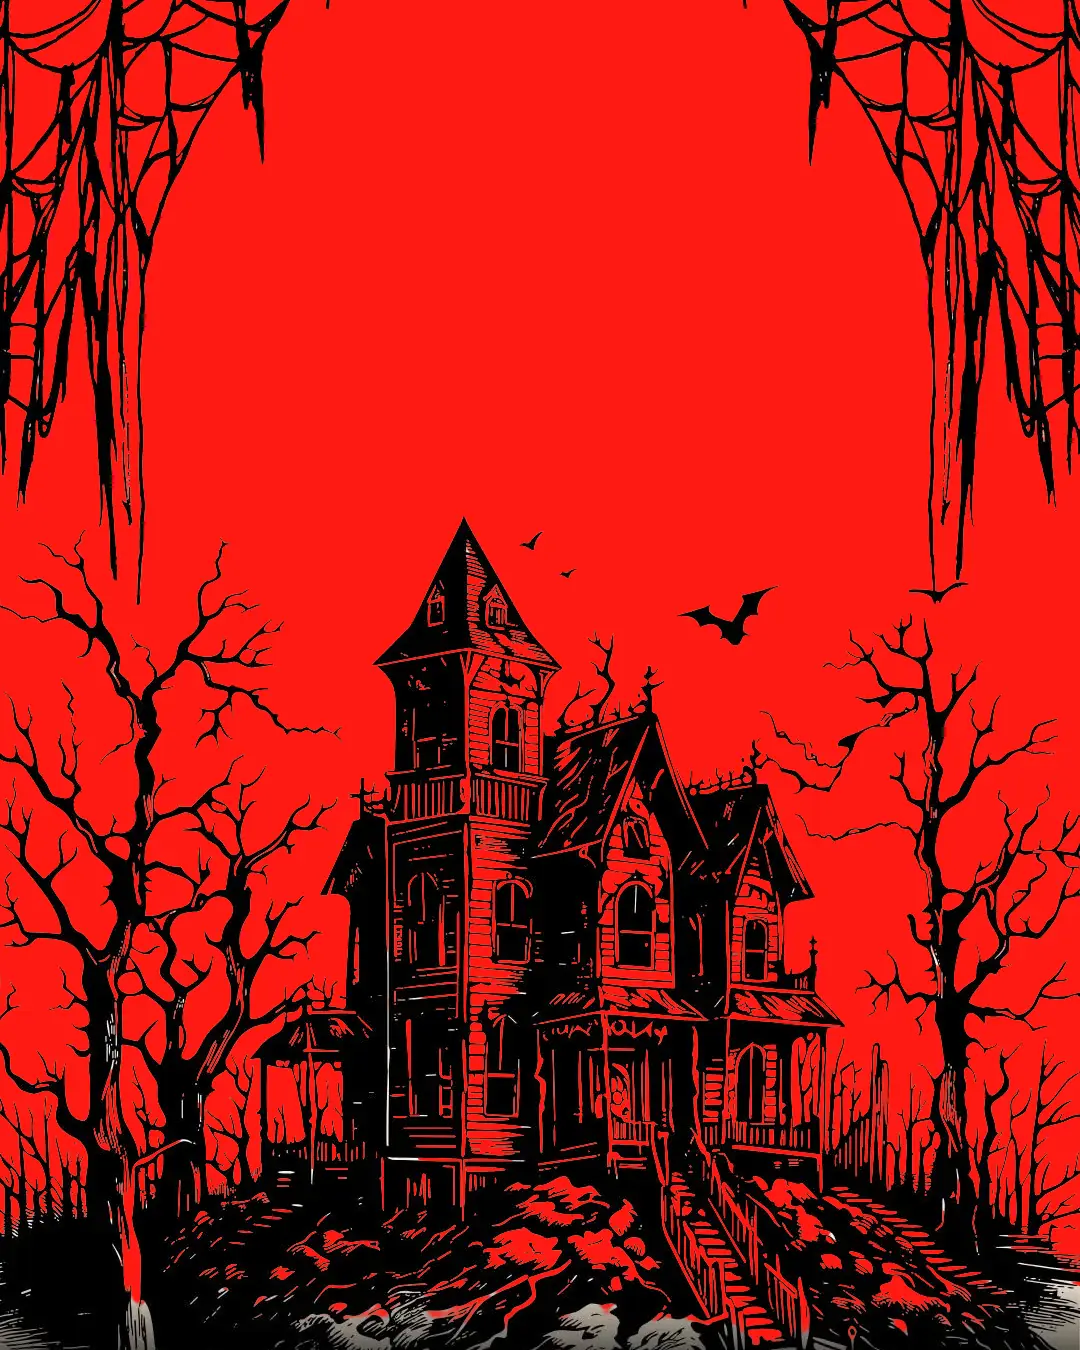
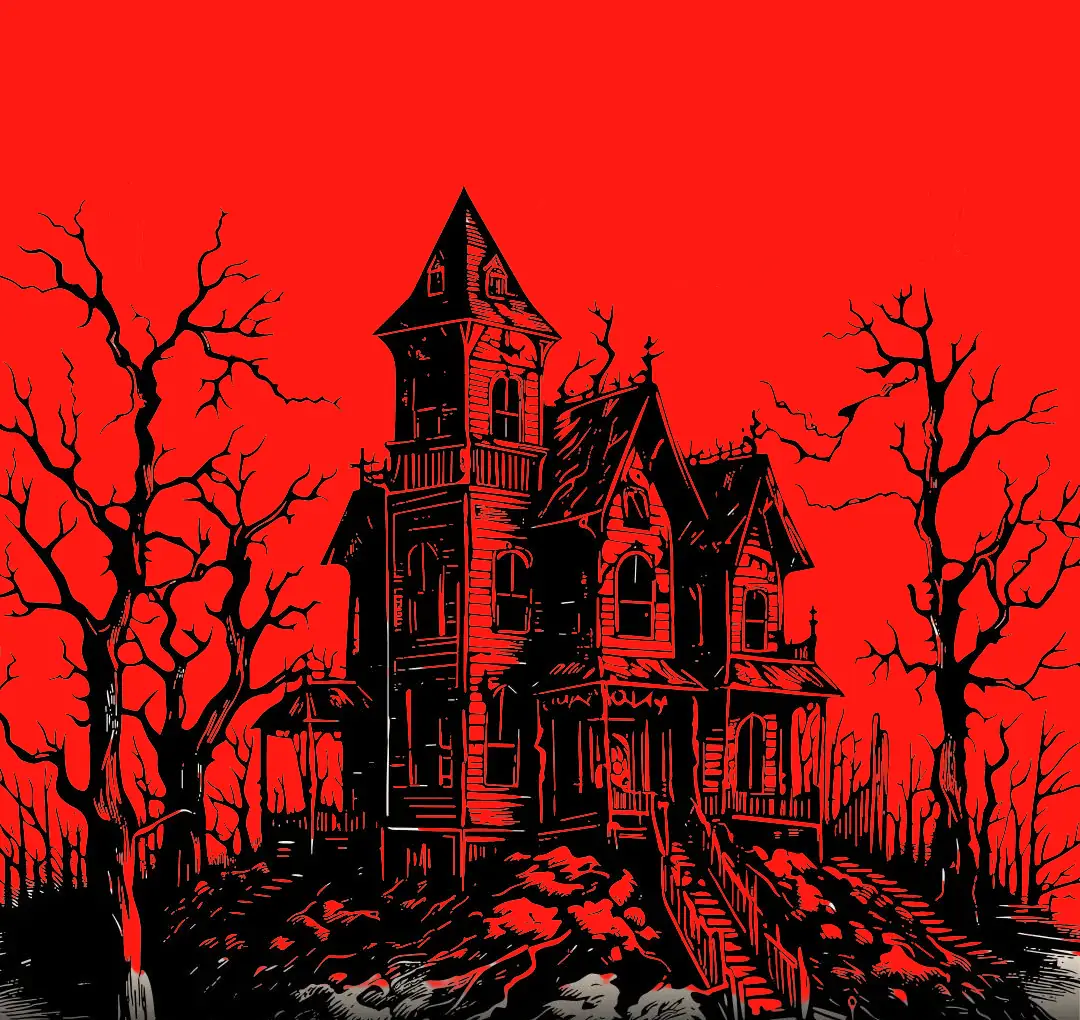
Fora as teias, fora a dança na janela, e ar entre as duas seções
**A janela dançando.** A camada das chamas também esticava na vertical, e o
erro é conceitual: a camada não é só chama, é um recorte do desenho inteiro
— esticá-la mexia o batente da janela junto, e o que se via era alguma coisa
se remexendo lá dentro. Fogo visto de longe não muda de lugar, muda de
brilho. Agora o que varia é opacidade, e só. Quem ainda cresce um tico é o
clarão, que é um borrão sem borda: nele o crescimento lê como o fogo
respirando, não como desenho esticando.

**As teias e as bordas.** As teias das pontas de cima eram o pior das
laterais — nas telas largas viravam duas manchas escuras penduradas nos
cantos, e esmaecê-las no vermelho só deixava a mancha borrada. Saíram do
arquivo: apagadas acima da linha em que só existe teia, e o céu vazio que
sobrava foi aparado junto. A arte foi de 1080x1350 para 1080x1020, ficou 34KB
mais leve, e o esmaecido lateral agora pega só galho de árvore, que dissolve
sem sujar. Sobraram dois cotocos de teia soltos abaixo do corte; foram
apagados por componente conexo — some o que não continua para baixo.

**O ar entre as seções.** O rodapé do ingresso foi de 20 para 44 (176 para
256 no desktop) e o apagamento para preto puro subiu para 34vh, com a fumaça
da cena em 52svh. As duas seções estavam se encostando: o formulário acabava
e o incêndio começava na mesma faixa de tela.

Medido na mesma rodada: cena do fogo a 21,7ms de mediana contra 28,3ms da
cena do morcego, que não foi tocada.
[…]

diff --git a/src/components/FireSection.tsx b/src/components/FireSection.tsx
@@ -32,8 +32,8 @@ import { event } from "@/config/event";
  *    É o que devolve o clarão na madeira que a arte em chamas tinha e o recorte
  *    sozinho perdia. O borrão é fixo: quem pulsa é a opacidade, que é de graça.
  * 3. **chamas** — o recorte, revelado de baixo para cima pela rolagem e tremendo
- *    sozinho em dois compassos que não fecham entre si, para o fogo nunca
- *    repetir o mesmo desenho.
+ *    sozinho. A tremida é só de brilho: a camada é um recorte do desenho, e
+ *    mexer nela de verdade arrastava o batente da janela junto.
  * 4. **fagulhas** — pontos que sobem e apagam, só depois que o fogo pegou.
  */
 
@@ -190,10 +190,10 @@ export function FireSection() {
           className="arte-casa absolute bottom-0 left-1/2 -translate-x-1/2"
           style={
             {
-              "--arte-h": "min(94svh, 152vw)",
+              "--arte-h": "min(78svh, 134vw)",
               height: "var(--arte-h)",
-              // a proporção do desenho, 4:5 — a largura sai da altura
-              width: "calc(var(--arte-h) * 0.8)",
+              // a proporção do desenho (1080x1020) — a largura sai da altura
+              width: "calc(var(--arte-h) * 1.0588)",
             } as React.CSSProperties
           }
         >
@@ -208,7 +208,7 @@ export function FireSection() {
             src="/casa.webp"
             alt="Casarão mal-assombrado entre árvores secas"
             width={1080}
-            height={1350}
+            height={1020}
             loading="lazy"
             decoding="async"
             className="block h-full w-full"
@@ -226,7 +226,7 @@ export function FireSection() {
               src="/casa-brilho.webp"
               alt=""
               width={320}
-              height={400}
+              height={302}
               loading="lazy"
               decoding="async"
               className="absolute inset-0 h-full w-full"
@@ -239,7 +239,7 @@ export function FireSection() {
               src="/casa-chamas.webp"
               alt=""
               width={1080}
-              height={1350}
+              height={1020}
               loading="lazy"
               decoding="async"
               className="absolute inset-0 h-full w-full"
@@ -343,10 +343,14 @@ export function FireSection() {
             linear-gradient(
               to right,
               rgb(255 26 18) 0%,
-              rgb(255 26 18 / 0.55) 4%,
-              rgb(255 26 18 / 0) 11%,
-              rgb(255 26 18 / 0) 89%,
-              rgb(255 26 18 / 0.55) 96%,
+              rgb(255 26 18 / 0.72) 3%,
+              rgb(255 26 18 / 0.32) 8%,
+              rgb(255 26 18 / 0.1) 13%,
+              rgb(255 26 18 / 0) 18%,
+              rgb(255 26 18 / 0) 82%,
+              rgb(255 26 18 / 0.1) 87%,
+              rgb(255 26 18 / 0.32) 92%,
+              rgb(255 26 18 / 0.72) 97%,
               rgb(255 26 18) 100%
             ),
             linear-gradient(
@@ -385,41 +389,50 @@ export function FireSection() {
         .brilho-fogo {
           filter: saturate(1.4);
           mix-blend-mode: plus-lighter;
+          transform-origin: 50% 88%;
           opacity: calc(var(--acesa) * 0.75);
           animation: fogo-respira 3.7s ease-in-out infinite;
         }
 
         /*
-          A tremida das chamas: opacidade e altura em compassos diferentes e
-          primos entre si. Fechando junto, o fogo pulsaria como um coração — o
-          que denuncia animação. Em 1,9s e 2,6s eles quase nunca se encontram, e
-          o desenho do fogo nunca se repete igual.
+          A tremida é só de luz. Nada de geometria.
 
-          As duas são propriedades que a placa de vídeo resolve sozinha: nada
-          aqui obriga o navegador a redesenhar a arte.
+          Antes a camada das chamas também esticava na vertical, e ficou ruim
+          por um motivo simples: a camada não é só chama, é um recorte do
+          desenho inteiro, então esticá-la mexia o batente da janela junto — dava
+          a impressão de ter alguma coisa dançando lá dentro. Fogo visto de longe
+          não muda de lugar, muda de brilho; então o que varia aqui é opacidade,
+          e só.
+
+          Os tempos são quebrados de propósito (2,3s nas chamas, 3,7s no clarão):
+          números redondos fecham juntos de tempos em tempos e o fogo passa a
+          pulsar como um coração, que é o que denuncia animação.
+
+          O clarão pode crescer um tico porque ele é um borrão sem borda — quem
+          olha lê como o fogo respirando, e não como desenho esticando.
         */
         .chamas {
-          transform-origin: 50% 100%;
-          animation:
-            chama-treme 1.9s ease-in-out infinite,
-            chama-lambe 2.6s ease-in-out infinite;
-          will-change: opacity, transform;
+          animation: chama-treme 2.3s ease-in-out infinite;
+          will-change: opacity;
         }
 
         @keyframes chama-treme {
-          0%, 100% { opacity: 0.86; }
-          40%      { opacity: 1; }
-          70%      { opacity: 0.93; }
-        }
-
-        @keyframes chama-lambe {
-          0%, 100% { transform: scaleY(1); }
-          50%      { transform: scaleY(1.035); }
+          0%   { opacity: 0.88; }
+          23%  { opacity: 1; }
+          46%  { opacity: 0.91; }
+          61%  { opacity: 0.99; }
+          100% { opacity: 0.88; }
         }
 
         @keyframes fogo-respira {
-          0%, 100% { opacity: calc(var(--acesa) * 0.6); }
-          50%      { opacity: calc(var(--acesa) * 0.95); }
+          0%, 100% {
+            opacity: calc(var(--acesa) * 0.62);
+            transform: scale(1);
+          }
+          50% {
+            opacity: calc(var(--acesa) * 0.95);
+            transform: scale(1.035);
+          }
         }
 
         /* --- as fagulhas --- */
@@ -449,7 +462,7 @@ export function FireSection() {
         /* --- a emenda com o preto do ingresso --- */
 
         .emenda-fogo {
-          height: 44svh;
+          height: 52svh;
           background: linear-gradient(
             to bottom,
             var(--color-ink) 0%,

diff --git a/src/components/TicketSection.tsx b/src/components/TicketSection.tsx
@@ -224,7 +224,7 @@ export function TicketSection({
   return (
     <section
       id="ingresso"
-      className="bg-ink relative z-40 overflow-hidden px-6 pt-[34vh] pb-20 sm:pt-24 sm:pb-28"
+      className="bg-ink relative z-40 overflow-hidden px-6 pt-[34vh] pb-44 sm:pt-24 sm:pb-64"
     >
       {/* cenário: a parede de ingressos correndo */}
       <TicketWall />
@@ -263,7 +263,7 @@ export function TicketSection({
       */}
       <div
         aria-hidden
-        className="pointer-events-none absolute inset-x-0 bottom-0 h-[24vh]"
+        className="pointer-events-none absolute inset-x-0 bottom-0 h-[34vh]"
         style={{
           background:
             "linear-gradient(to top, var(--color-ink) 0%, var(--color-ink) 22%, transparent 100%)",

diff --git a/docs/manutencao.md b/docs/manutencao.md
@@ -128,6 +128,11 @@ Na pasta `public/`:
 | `casa-chamas.webp` | só o fogo, recortado da arte em chamas, com o resto transparente |
 | `casa-brilho.webp` | o mesmo fogo já borrado e pequeno (320px), que é o clarão na madeira |
 
+Os três recortados saem em 1080x1020: as teias das pontas de cima foram
+apagadas e o céu vazio aparado. Se trocar a arte, o `CORTE_TEIA` do trecho
+abaixo precisa ser conferido — ele é a linha, em pixels do arquivo original,
+acima da qual só existe teia.
+
 O achatamento não é capricho: com fundo transparente as artes pesavam 793KB, e
 sobre o vermelho pesam menos da metade. Num traço denso assim, o canal alfa é o
 que mais custa a comprimir.
@@ -138,25 +143,33 @@ que mais custa a comprimir.
 from PIL import Image
 import numpy as np
 
-vermelho = Image.new("RGBA", (1080, 1350), (255, 26, 18, 255))   # o vermelho do site
+# as teias das pontas de cima saem, e o céu vazio é aparado junto:
+# nas telas largas elas viravam duas manchas escuras penduradas nos cantos
+CORTE_TEIA, CORTE_TOPO = 508, 330
+
+def sem_teias(caminho):
+    a = np.array(Image.open(caminho).convert("RGBA"))
+    a[:CORTE_TEIA, :, 3] = 0
+    return Image.fromarray(a, "RGBA").crop((0, CORTE_TOPO, 1080, 1350))
+
+vermelho = Image.new("RGBA", (1080, 1020), (255, 26, 18, 255))   # o vermelho do site
 
 # a casa limpa, achatada
-limpa = Image.open("public/casa.png").convert("RGBA")
-Image.alpha_composite(vermelho, limpa).convert("RGB").save(
+Image.alpha_composite(vermelho, sem_teias("public/casa.png")).convert("RGB").save(
     "public/casa.webp", "WEBP", quality=72, method=6)
 
 # só o fogo: fica o que é quente e claro, o resto vira transparente
-a = np.array(Image.open("public/casa-fogo.png").convert("RGBA")).astype(np.float32)
+a = np.array(sem_teias("public/casa-fogo.png")).astype(np.float32)
 R, G, B, A = a[..., 0], a[..., 1], a[..., 2], a[..., 3]
-alfa = (A / 255) * np.clip((R - B - 35) / 55, 0, 1) * np.clip((R - 85) / 85, 0, 1)
-alfa[alfa < 0.10] = 0                                   # corta o ruído fraco
+alfa = (A / 255) * np.clip((R - B - 55) / 25, 0, 1) * np.clip((R - 115) / 40, 0, 1)
+alfa[alfa < 0.08] = 0                                   # corta o ruído fraco
 chamas = Image.fromarray(np.dstack([R, G, B, alfa * 255]).astype(np.uint8), "RGBA")
 chamas.save("public/casa-chamas.webp", "WEBP", quality=92, alpha_quality=100, method=6)
 
 # o clarão: o mesmo fogo borrado e pequeno — borrão não precisa de resolução,
 # e assado no arquivo ele sai de graça (em CSS, blur() custa caro por quadro)
 from PIL import ImageFilter
-brilho = chamas.filter(ImageFilter.GaussianBlur(26)).resize((320, 400), Image.LANCZOS)
+brilho = chamas.filter(ImageFilter.GaussianBlur(26)).resize((320, 302), Image.LANCZOS)
 brilho.filter(ImageFilter.GaussianBlur(3)).save(
     "public/casa-brilho.webp", "WEBP", quality=82, alpha_quality=90, method=6)
 ```
